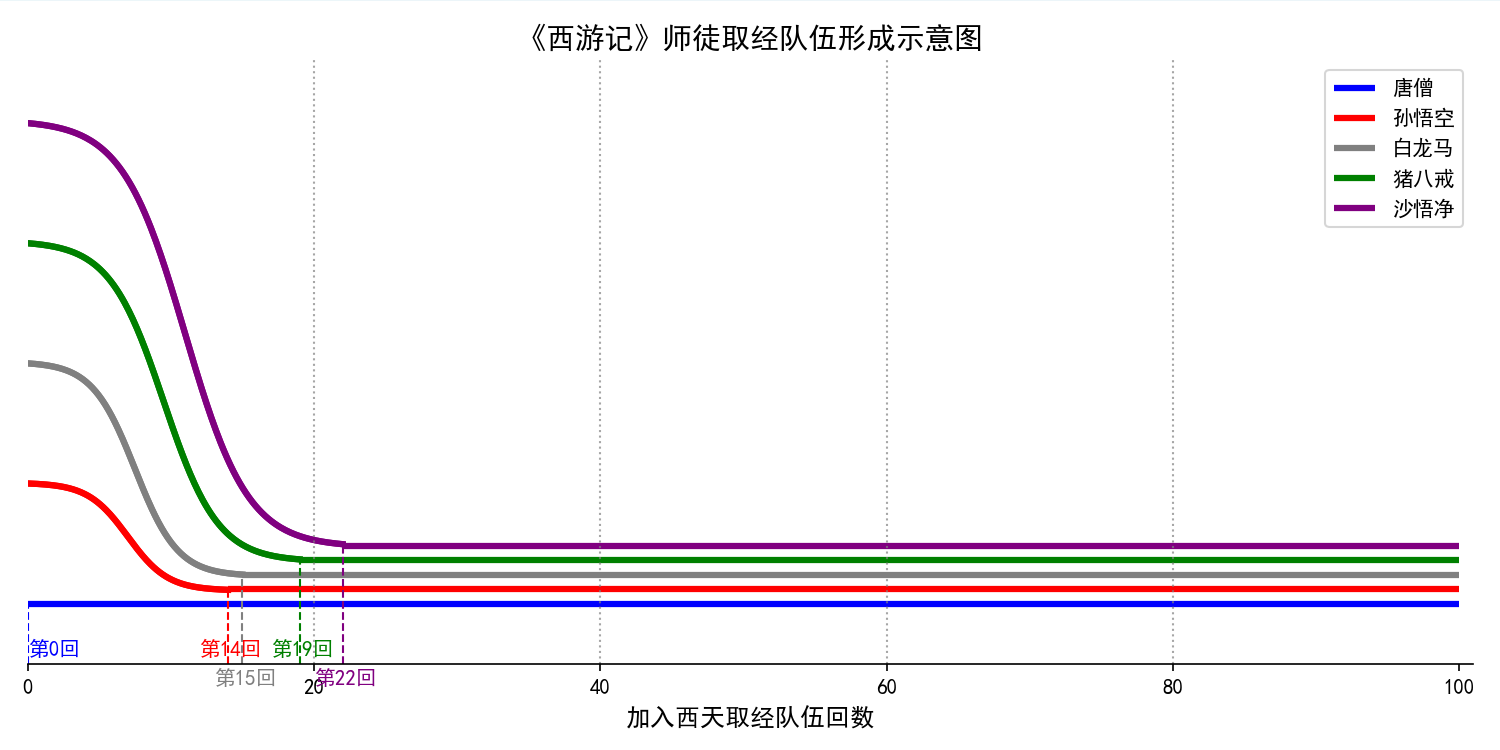
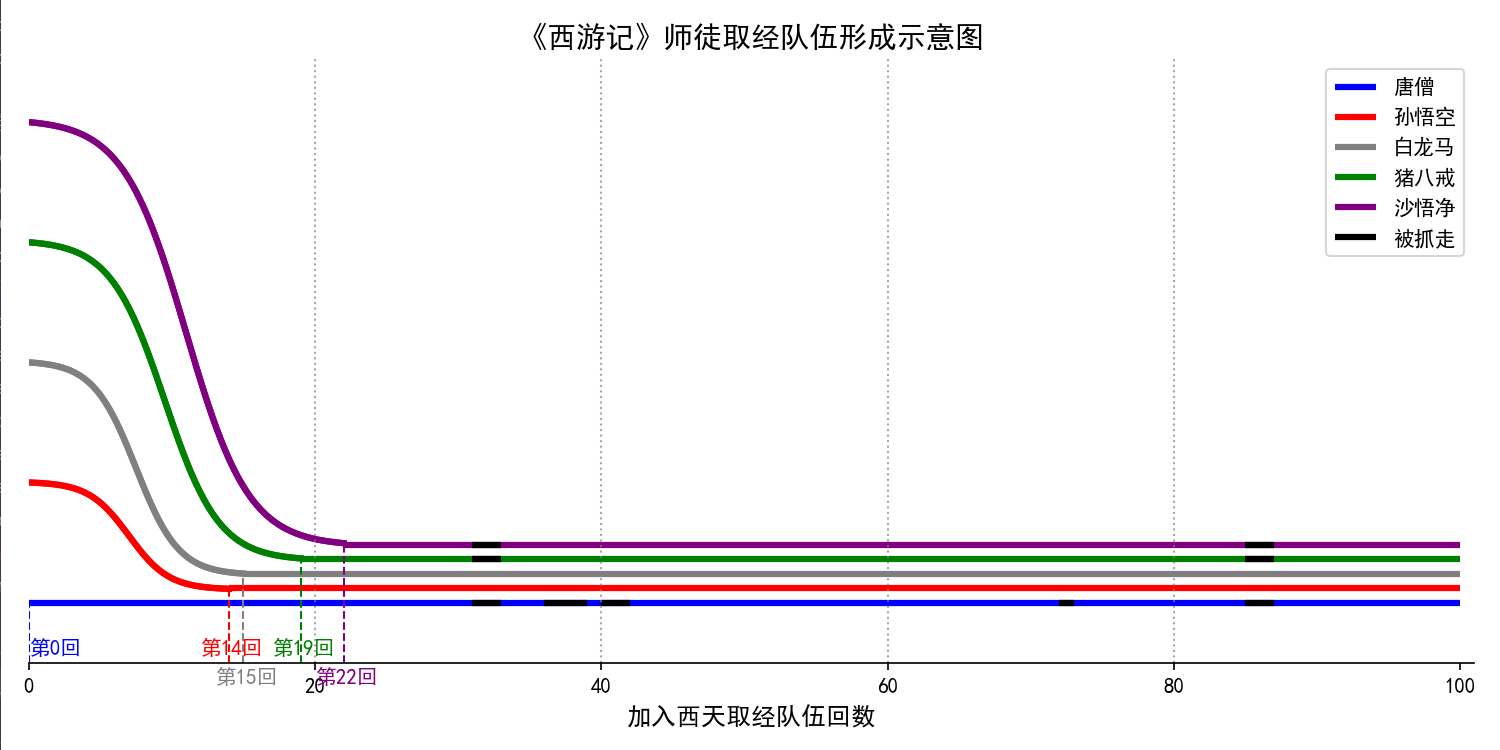
update

diff --git a/qym_paint.py b/qym_paint.py
@@ -62,6 +62,25 @@ for (name, chapter, color), y in zip(characters, y_positions):
     i += 0.12
     j += 1
 
+# 金角、银角大王(31—33回)：唐僧(y=0)、猪八戒(y=-1)、沙僧(y=-2)
+ax.hlines(y=0, xmin=31, xmax=33, color='black', linewidth=3, label="被抓走")   # 覆盖唐僧线段
+ax.hlines(y=0.36, xmin=31, xmax=33, color='black', linewidth=3)  # 覆盖八戒线段
+ax.hlines(y=0.48, xmin=31, xmax=33, color='black', linewidth=3)  # 覆盖沙僧线段
+
+# 黄袍怪(36—39回)抓走唐僧(y=0)
+ax.hlines(y=0, xmin=36, xmax=39, color='black', linewidth=3)
+
+# 红孩儿(40—42回)抓走唐僧(y=0)
+ax.hlines(y=0, xmin=40, xmax=42, color='black', linewidth=3)
+
+# 蜘蛛精盘丝洞(72—73回)抓走唐僧(y=0)
+ax.hlines(y=0, xmin=72, xmax=73, color='black', linewidth=3)
+
+# 狮驼岭三魔(85—87回)抓走唐僧(y=0)、八戒(y=-1)、沙僧(y=-2)
+ax.hlines(y=0, xmin=85, xmax=87, color='black', linewidth=3)
+ax.hlines(y=0.36, xmin=85, xmax=87, color='black', linewidth=3)
+ax.hlines(y=0.48, xmin=85, xmax=87, color='black', linewidth=3)
+
 
 # 设置横轴范围
 ax.set_xlim(0, total_chapters + 1)
